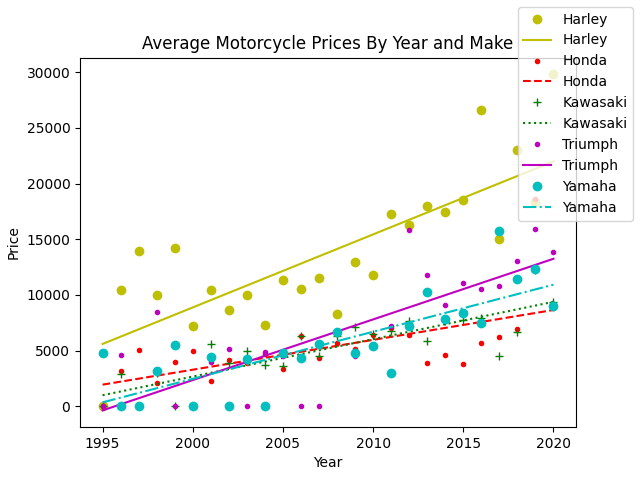
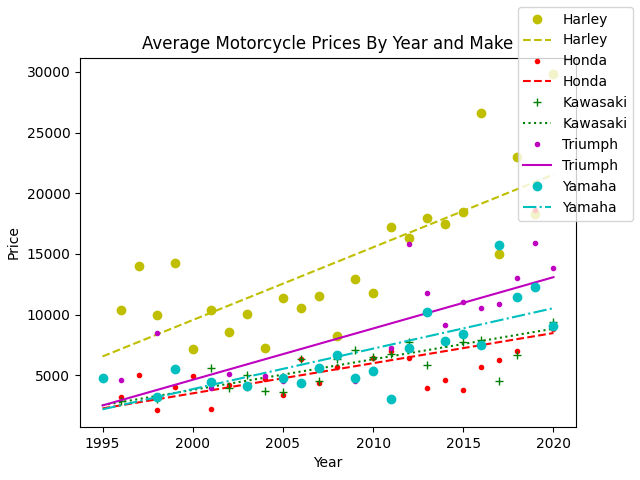
Do not plot data points for years where the average price is zero

diff --git a/main.py b/main.py
@@ -2,55 +2,72 @@ from craigslist import CraigslistForSale
 from matplotlib import pyplot as plt
 import numpy
 
+
+class MotorcycleMake:
+    """A motorcycle make that will be plotted in the graph"""
+    def __init__(self, name, marker_format, line_format):
+        self.name = name
+        self.marker_format = marker_format
+        self.line_format = line_format
+        self.num_results = 0
+        self.sum_of_prices = 0
+
+
 # Parameters of the motorcycle search
 location = 'vancouver'
 years = range(1995, 2021)
-makes = ['Harley', 'Honda', 'Kawasaki', 'Triumph', 'Yamaha']
-marker_formats = {'Harley': 'yo', 'Honda': 'r.', 'Kawasaki': 'g+', 'Triumph': 'm.', 'Yamaha': 'co'}
-line_formats = {'Harley': 'y-', 'Honda': 'r--', 'Kawasaki': 'g:', 'Triumph': 'm-', 'Yamaha': 'c-.'}
+makes = [MotorcycleMake('Harley', 'yo', 'y--'),
+         MotorcycleMake('Honda', 'r.', 'r--'),
+         MotorcycleMake('Kawasaki', 'g+', 'g:'),
+         MotorcycleMake('Triumph', 'm.', 'm-'),
+         MotorcycleMake('Yamaha', 'co', 'c-.')]
 
 # Calculate the average price for each make and year
-average_prices = {}
-for make in makes:
-    average_prices[make] = []
+make_names = [m.name for m in makes]
+average_prices = {key: list() for key in make_names}
+for y in years:
+    print(f"Querying Craigslist for year {y}...")
+    cl = CraigslistForSale(site=location, category='mca', filters={'min_year': y, 'max_year': y})
+    results = cl.get_results()
 
-if __name__ == '__main__':
-
-    for y in years:
-        print(f"Querying Craigslist for year {y}...")
-        cl = CraigslistForSale(site=location, category='mca', filters={'min_year': y, 'max_year': y})
-        results = cl.get_results()
-
-        num_results = {}
-        sum_of_prices = {}
-        for make in makes:
-            sum_of_prices[make] = 0
-            num_results[make] = 0
-
-        # Get all of the results. Note that iterating over results actually makes requests to CL so we only
-        # want to iterate over results once and not put it in an inner loop
-        for result in results:
-            for make in makes:
-                if make in result['name']:
-                    num_results[make] = (num_results[make] + 1) if (make in num_results) else 1
-                    sum_of_prices[make] = (sum_of_prices[make] if (make in sum_of_prices) else 0) + int(result['price'].strip('$').replace(',', ''))
-
-        for make in makes:
-            average_price = (sum_of_prices[make] / num_results[make]) if num_results[make] > 0 else 0
-            average_prices[make].append(average_price)
-
-    # Plot the prices vs the year
-    print("Building an X-Y plot for average price vs model year for each make...")
     for make in makes:
-        plt.plot(years, average_prices[make], marker_formats[make], label=make)
+        make.sum_of_prices = 0
+        make.num_results = 0
 
-        # Show a trend line
-        z = numpy.polyfit(years, average_prices[make], 1)
-        p = numpy.poly1d(z)
-        plt.plot(years, p(years), line_formats[make], label=make)
+    # Get all of the results. Note that iterating over results actually makes requests to CL so we only
+    # want to iterate over results once and not put it in an inner loop
+    for result in results:
+        for make in makes:
+            if make.name in result['name']:
+                make.num_results = make.num_results + 1
+                make.sum_of_prices = make.sum_of_prices + int(result['price'].strip('$').replace(',', ''))
 
-    plt.title("Average Motorcycle Prices By Year and Make")
-    plt.xlabel('Year')
-    plt.ylabel('Price')
-    plt.figlegend()
-    plt.show()
+    for make in makes:
+        average_price = (make.sum_of_prices / make.num_results) if make.num_results > 0 else 0
+        average_prices[make.name].append(average_price)
+
+# Plot the prices vs the year
+print("Building an X-Y plot for average price vs model year for each make...")
+for make in makes:
+
+    # Ignore years for which we found no entries or the average price was zero
+    raw_prices = average_prices[make.name]
+    nonzero_prices = []
+    nonzero_years = []
+    for i in range(0, len(years)):
+        if raw_prices[i] > 0:
+            nonzero_years.append(years[i])
+            nonzero_prices.append(raw_prices[i])
+
+    plt.plot(nonzero_years, nonzero_prices, make.marker_format, label=make.name)
+
+    # Show a trend line
+    z = numpy.polyfit(nonzero_years, nonzero_prices, 1)
+    p = numpy.poly1d(z)
+    plt.plot(years, p(years), make.line_format, label=make.name)
+
+plt.title("Average Motorcycle Prices By Year and Make")
+plt.xlabel('Year')
+plt.ylabel('Price')
+plt.figlegend()
+plt.show()
